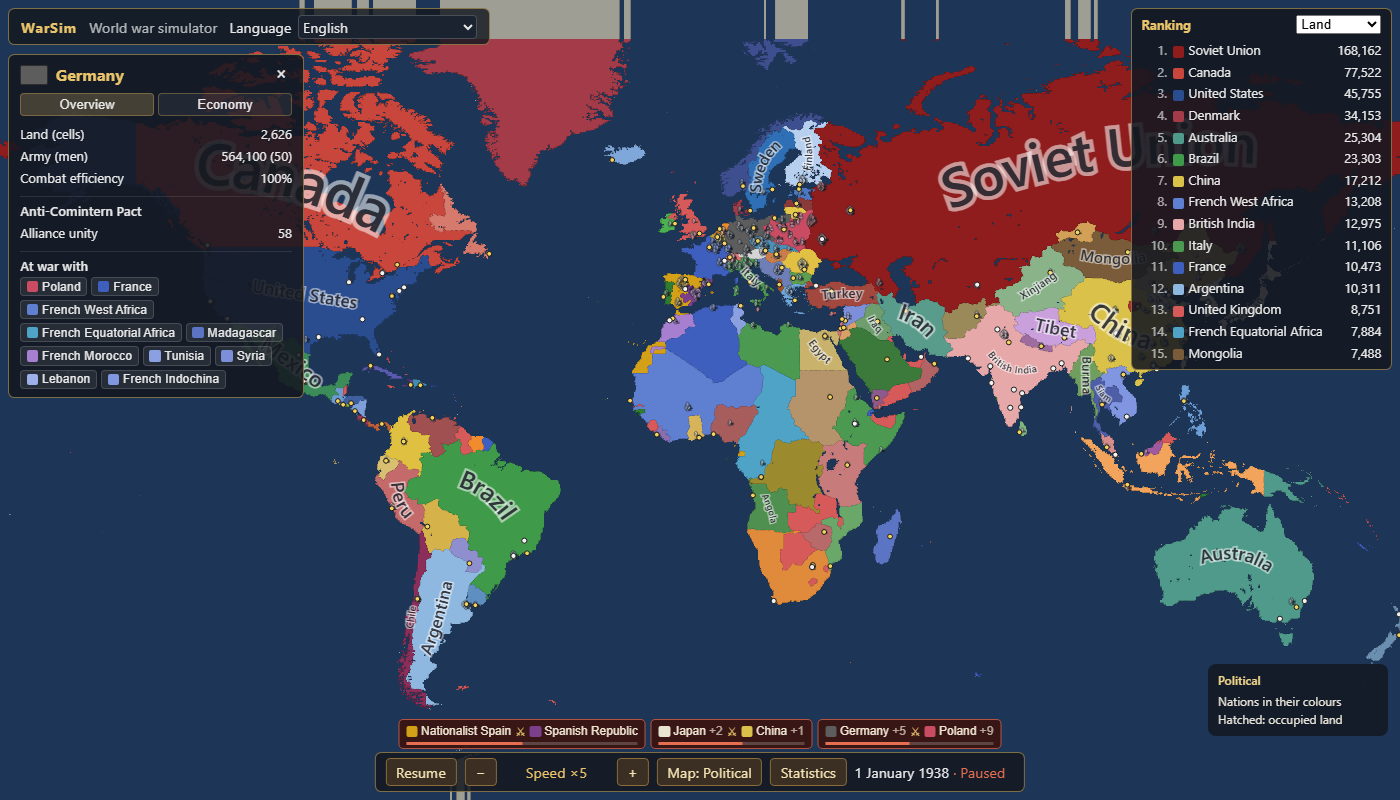
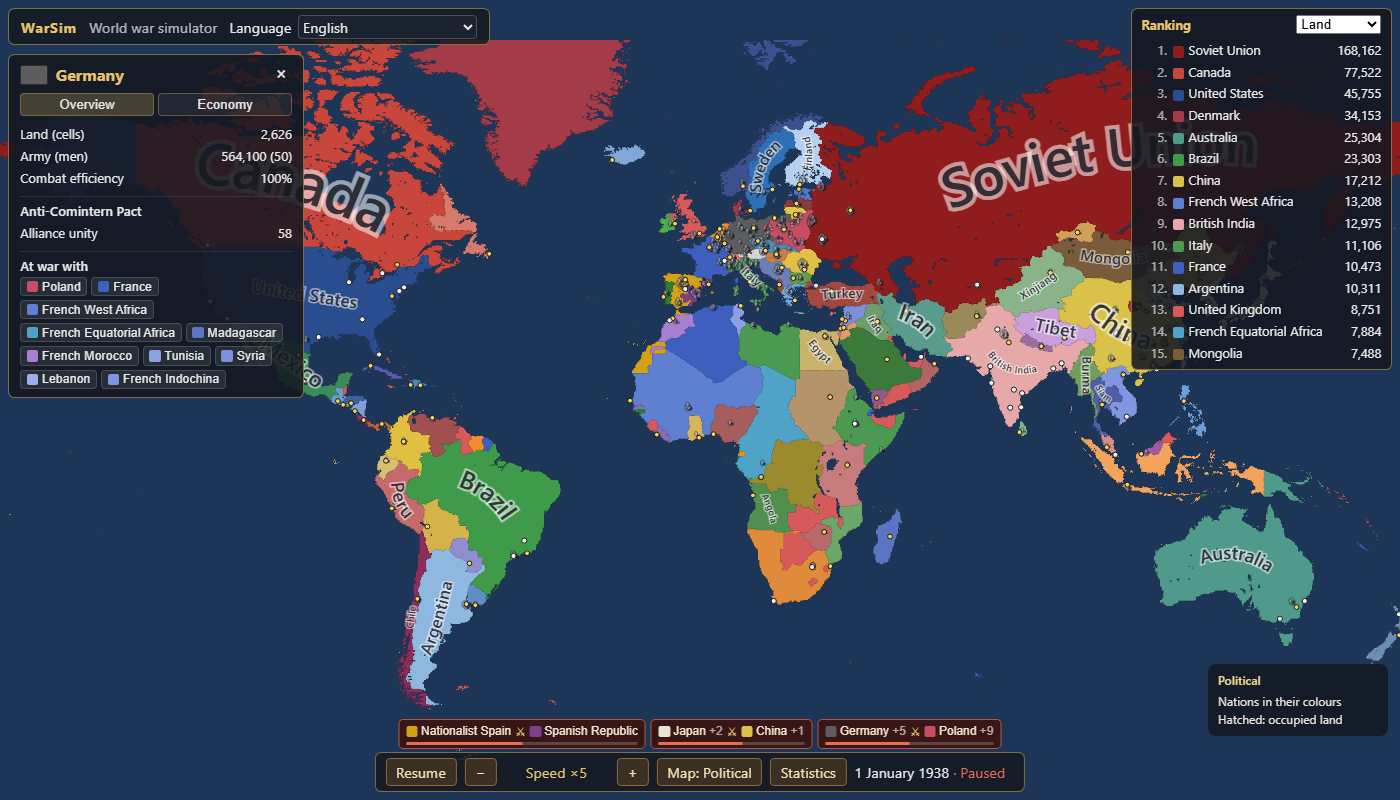
Review pass after PLAN 1.30-1.31: off-map rows render as sea, map-mode unit tests
- shader: rows above/below the map are sea (clamped coverage drew grey polar stripes)
- e2e samples the off-map bands at minimum zoom (fails on the old shader)
- unit tests for every modeColor rule and legend/i18n coverage
- SPEC map-modes entry synced; BLOCKERS item closed

diff --git a/tests/unit/mapModes.test.ts b/tests/unit/mapModes.test.ts
@@ -1,0 +1,70 @@
+import { describe, expect, it } from 'vitest';
+import en from '../../src/ui/i18n/en.json' with { type: 'json' };
+import {
+  ALLY_COLOR,
+  ENEMY_COLOR,
+  INCOME_HIGH,
+  INCOME_LOW,
+  MAP_MODES,
+  NEUTRAL_COLOR,
+  NON_ALIGNED_COLOR,
+  PEACE_COLOR,
+  SELF_COLOR,
+  SUBJECT_COLOR,
+  WAR_COLOR,
+  legendFor,
+  lighten,
+  mix,
+  modeColor,
+  PUPPET_LIGHTEN,
+  type NationColors,
+} from '../../src/shared/mapModes';
+
+// Review after PLAN 1.31: the map-mode colour rules and legends (previously only covered by e2e
+// pixel checks).
+
+const base: NationColors = { own: 0x336699, allianceLeader: null, overlord: null, hasPuppets: false };
+
+describe('map modes', () => {
+  it('political and terrain/revolts keep the own colour (the shader colours the latter)', () => {
+    for (const m of ['political', 'terrain', 'revolts'] as const) expect(modeColor(m, base)).toBe(0x336699);
+  });
+
+  it('alliances and puppets', () => {
+    expect(modeColor('alliances', base)).toBe(NON_ALIGNED_COLOR);
+    expect(modeColor('alliances', { ...base, allianceLeader: 0x112233 })).toBe(0x112233);
+    expect(modeColor('puppets', base)).toBe(NON_ALIGNED_COLOR);
+    expect(modeColor('puppets', { ...base, hasPuppets: true })).toBe(0x336699);
+    expect(modeColor('puppets', { ...base, overlord: 0x804020 })).toBe(lighten(0x804020, PUPPET_LIGHTEN));
+  });
+
+  it('wars: red at war, grey at peace', () => {
+    expect(modeColor('wars', { ...base, atWar: true })).toBe(WAR_COLOR);
+    expect(modeColor('wars', base)).toBe(PEACE_COLOR);
+  });
+
+  it('diplomacy: own colours with nothing selected, else one colour per relation', () => {
+    expect(modeColor('diplomacy', base)).toBe(0x336699);
+    expect(modeColor('diplomacy', { ...base, relation: 'none' })).toBe(0x336699);
+    const want = { self: SELF_COLOR, ally: ALLY_COLOR, enemy: ENEMY_COLOR, subject: SUBJECT_COLOR, neutral: NEUTRAL_COLOR } as const;
+    for (const [r, c] of Object.entries(want)) expect(modeColor('diplomacy', { ...base, relation: r as keyof typeof want })).toBe(c);
+  });
+
+  it('income: a clamped ramp from low to high', () => {
+    expect(modeColor('income', { ...base, incomeT: 0 })).toBe(INCOME_LOW);
+    expect(modeColor('income', { ...base, incomeT: 1 })).toBe(INCOME_HIGH);
+    expect(modeColor('income', { ...base, incomeT: 7 })).toBe(INCOME_HIGH);
+    expect(modeColor('income', { ...base, incomeT: -1 })).toBe(INCOME_LOW);
+    expect(modeColor('income', { ...base, incomeT: 0.5 })).toBe(mix(INCOME_LOW, INCOME_HIGH, 0.5));
+  });
+
+  it('every mode has a legend whose keys (and the mode name) exist in en.json', () => {
+    const keys = new Set(Object.keys(en));
+    for (const m of MAP_MODES) {
+      expect(keys.has(`mapMode.${m}`), m).toBe(true);
+      const legend = legendFor(m);
+      expect(legend.length, m).toBeGreaterThan(0);
+      for (const [, key] of legend) expect(keys.has(key), key).toBe(true);
+    }
+  });
+});

diff --git a/tests/e2e/coast1938.spec.ts b/tests/e2e/coast1938.spec.ts
@@ -84,3 +84,41 @@ test('the fine land mask draws the coast; terrain mode shows terrain', async ({ 
     await page.screenshot({ path: path.join(out, `${name}.png`) });
   }
 });
+
+// Review after PLAN 1.31: fully zoomed out, the map is shorter than the viewport and bands of
+// off-map rows show above and below it. They are plain sea; clamped land coverage used to
+// stretch the polar rows into grey vertical stripes there.
+test('off-map rows above and below the map render as sea, without stripes', async ({ page }) => {
+  test.setTimeout(120_000);
+  await page.setViewportSize({ width: 1400, height: 800 });
+  await page.goto('/?scenario=1938&paused=1&seed=1938');
+  await page.waitForFunction(() => (window.__warsim?.view?.frames ?? 0) > 0 && window.__warsim!.view!.hasFineCoast, null, { timeout: 60_000 });
+  const bands = await page.evaluate(
+    ({ W, H }) => {
+      const v = window.__warsim!.view!;
+      v.controller.set({ cx: W / 2, cy: H / 2, scale: 0.01 }); // clamped to the minimum zoom
+      v.draw();
+      const c = document.getElementById('map') as HTMLCanvasElement;
+      const mapPx = H * v.controller.cam.scale * (c.width / c.clientWidth);
+      const gap = (c.height - mapPx) / 2; // device px of off-map band at top and bottom
+      const gl = c.getContext('webgl2')!;
+      const p = new Uint8Array(4);
+      const row = (y: number): number[][] => {
+        const out: number[][] = [];
+        for (let i = 1; i < 60; i++) {
+          gl.readPixels(Math.floor((c.width * i) / 60), Math.floor(y), 1, 1, gl.RGBA, gl.UNSIGNED_BYTE, p);
+          out.push([p[0]!, p[1]!, p[2]!]);
+        }
+        return out;
+      };
+      return { gap, rows: [row(gap / 2), row(c.height - gap / 2)] };
+    },
+    { W, H },
+  );
+  expect(bands.gap).toBeGreaterThan(8); // the bands exist at this viewport
+  for (const pixels of bands.rows) {
+    const sea = pixels[0]!;
+    for (const p of pixels) expect(Math.hypot(p[0]! - sea[0]!, p[1]! - sea[1]!, p[2]! - sea[2]!), `${p} vs ${sea}`).toBeLessThan(6);
+    expect(sea[2]!).toBeGreaterThan(sea[0]! + 20); // blue sea, not grey land
+  }
+});

diff --git a/src/render/map/mapShader.ts b/src/render/map/mapShader.ts
@@ -179,7 +179,10 @@ void main() {
   vec2 luv = vec2(fract(cellPos.x / float(uMapSize.x)), cellPos.y / float(uMapSize.y));
   float cov = texture(uLand, luv).r;
   float covW = max(fwidth(cov), 1e-6);
-  bool water = uHasLand == 1 ? cov <= 0.5 : best == 0u;
+  // Off-map rows (above the top, below the bottom) are sea: clamped coverage would otherwise
+  // stretch the polar rows into grey stripes when fully zoomed out (review after PLAN 1.31).
+  bool offMap = cellPos.y < 0.0 || cellPos.y >= float(uMapSize.y);
+  bool water = offMap || (uHasLand == 1 ? cov <= 0.5 : best == 0u);
   // Land the cell rule called water takes the strongest land id around it.
   uint fid = best != 0u ? best : secondId;
 

diff --git a/SPEC.md b/SPEC.md
@@ -954,14 +954,15 @@ interpolation changes something.
   flushed, so a single step still updates the UI.
 - **Map modes** (implemented PLAN 1.17–1.30a, `src/shared/mapModes.ts`):
   - *Implemented:* political, alliances, puppets, terrain, wars (red at war), diplomacy (relations
-    to the nation selected by clicking the map) and income (log ramp).
+    to the nation selected by clicking the map), income (log ramp) and revolts.
+  - *Off-map rows* (above/below the map when fully zoomed out) render as sea.
   - *How:* palette swaps from snapshot fields (alliance leader, overlord, income, war pairs);
     terrain uses the shader's terrain layer. Each mode has a legend (`src/ui/MapLegend.tsx`).
   - *Revolts* (1.30b): a per-province unrest choropleth. The worker sends the province raster
     in `mapLayers` and per-province unrest bytes (`provinceStats`) when `Provinces.version`
     changes; the shader colours land by its province's unrest (fill mode 2).
-- **Map modes** (planned): political, terrain, wars, diplomacy, alliances, puppets, income,
-  revolts, + sea control, air superiority, fallout, supply.
+- **Map modes still planned**: sea control, air superiority, fallout, supply (with their
+  phases).
 - **God Mode**: rename; force war, peace, alliance or collapse; spawn a nation, revolt or battle;
   grant buffs; take control of a nation; disable AI globally or per nation; toggle nukes
   globally or per nation; grant warheads; force a strike. All of these are Commands.

diff --git a/PROGRESS.md b/PROGRESS.md
@@ -1728,3 +1728,18 @@ How each step was applied to tasks 0.4–0.22 (0.1–0.3 were done in an earlier
   bottom bar. The first shot showed list numbering starting at "3."; rows now carry explicit
   ranks. Grey stripes at the map's polar edges when fully zoomed out logged in BLOCKERS.
 - Parity: row 59 → partial.
+
+## 2026-10-02 — Review pass after PLAN 1.30a–1.31b
+- **Bug (from BLOCKERS):** fully zoomed out, the map is shorter than the viewport, and the
+  off-map bands above and below it showed grey vertical stripes. The shader sampled clamped
+  land coverage there, stretching the polar rows. Off-map rows are now sea. The new e2e
+  (`coast1938.spec.ts`, "off-map rows…") samples both bands at minimum zoom; it fails on the old
+  shader (grey 158,158,148) and passes now. A first version of the test sampled at a zoom the
+  camera clamps away and proved nothing; probe screenshots found the real band.
+- **Missing tests:** `tests/unit/mapModes.test.ts` covers every `modeColor` rule (alliances,
+  puppets, wars, diplomacy relations, clamped income ramp) and checks every mode's legend and
+  name keys exist in en.json.
+- **SPEC drift:** the map-modes entry lists revolts and off-map sea; the duplicate "planned" list
+  is now the four modes still to come.
+- BLOCKERS: stripes entry removed (fixed). Evidence regenerated (`docs/evidence/1.31/ui-shell.png`
+  no longer shows the stripes).

diff --git a/BLOCKERS.md b/BLOCKERS.md
@@ -12,6 +12,3 @@ _None._
 - `reference/NOTES.md` (the user's taste notes, highest-priority reference) does not exist
   (checked 2026-10-02). Visual/feel decisions rely on `reference/screens/`, the trailer and
   itch/Steam/devlog text, and are marked lower confidence until notes appear.
-- Fully zoomed out on the 1938 map, grey vertical stripes show along the north and south map
-  edges (seen in `docs/evidence/1.31/ui-shell.png`, 2026-10-02). Not caused by the UI; look at
-  the polar rows / edge clamping in the map shader in the next review pass.
